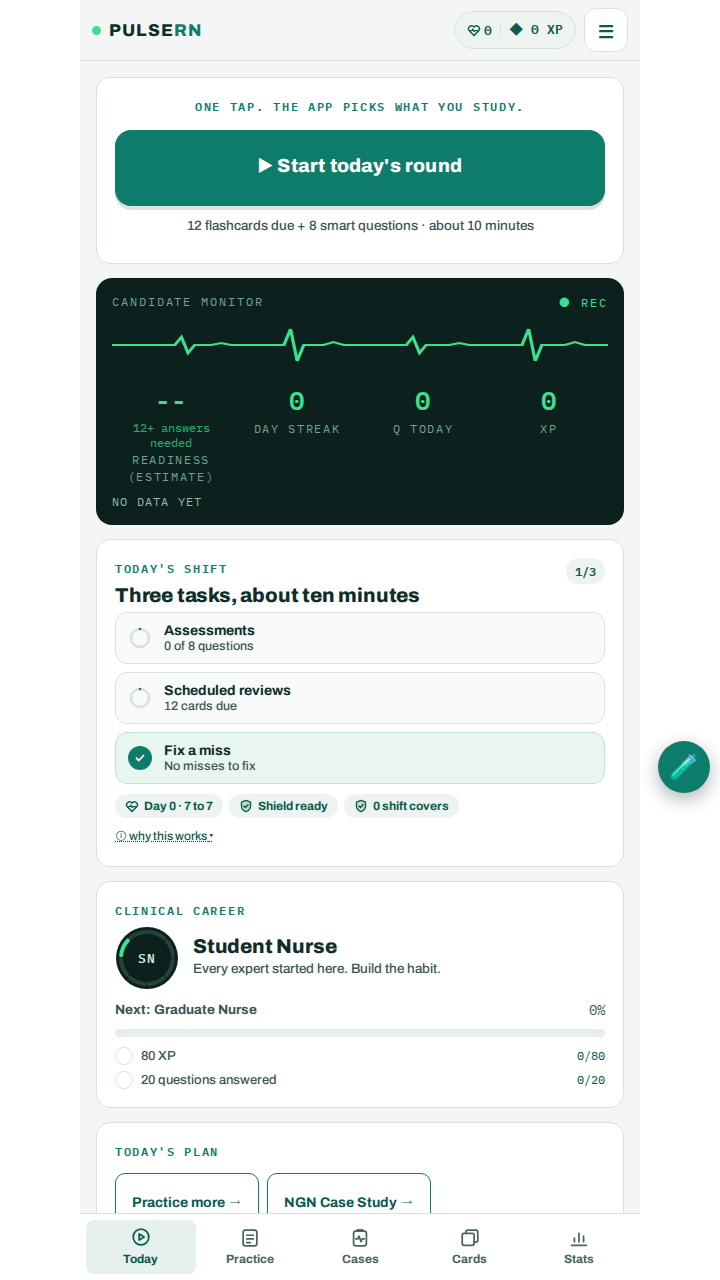
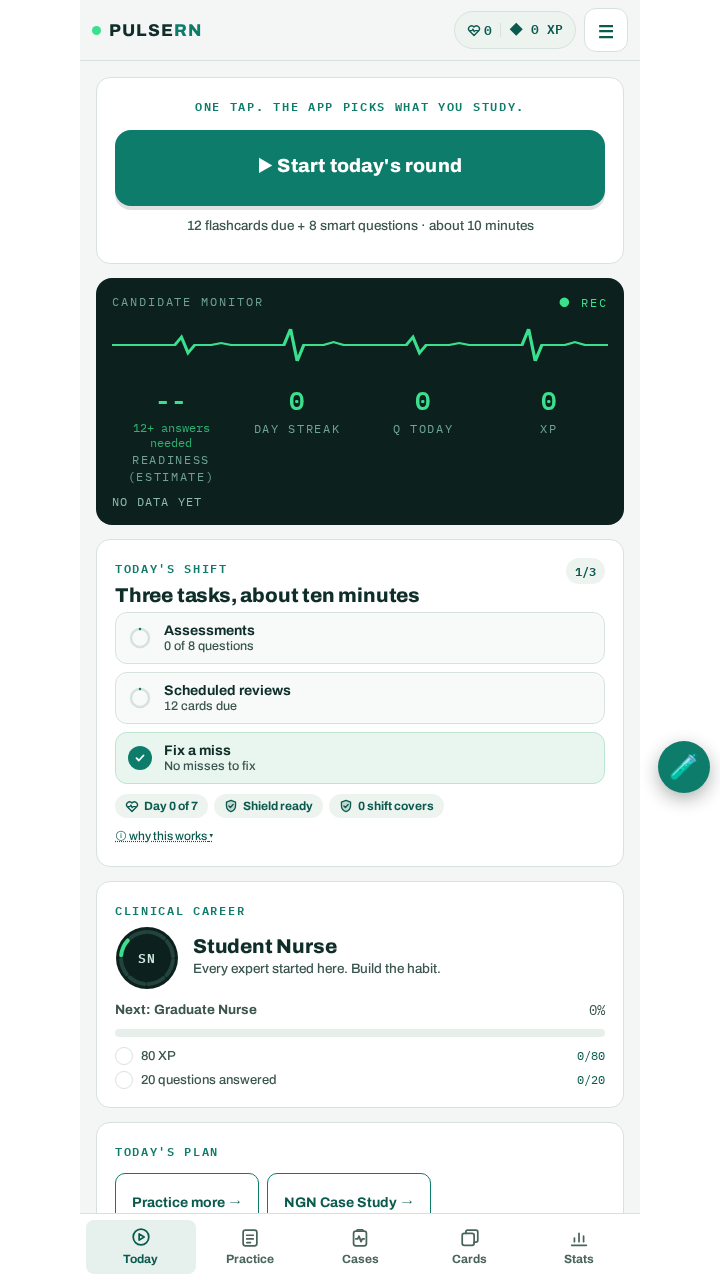
Bank a weekly cover after a same-week spend, and label the streak as Day N of the milestone.
A full cover bank no longer marks the week as granted, so spending a cover later that week can still bank the one that was earned at the cap. The Today streak pill now reads "Day 0 of 7" instead of the garbled "Day 0 · 7 to 7".

diff --git a/pulsern/tests/rewards.test.js b/pulsern/tests/rewards.test.js
@@ -3,7 +3,7 @@
    covers protect missed days; milestones fire once. */
 import { describe, it, expect } from "vitest";
 import {
-  answerXp, minThinkMs, answerCountsForRun, xpNote, comboFor, bumpDay, reverseCardDay, shiftStatus, shiftCompleteNote, todayQuestionCount, weekRounds, maybeGrantCover, advanceStreak, streakDayCounted,
+  answerXp, minThinkMs, answerCountsForRun, xpNote, comboFor, bumpDay, reverseCardDay, shiftStatus, shiftCompleteNote, todayQuestionCount, weekRounds, maybeGrantCover, advanceStreak, streakDayCounted, streakPillLabel,
   categoryMastery, badgeBoard, careerStatus, legacyRankIndex, detectMoments, markMomentsSeen, sessionRecap,
   emptyRewards, migrateRewards, daysBetween, shiftDay, mondayOf, TIERS, CAREER, REVIEW_FIX_BONUS, MAX_COVERS, TEST_PLAN,
 } from "../src/rewards.js";
@@ -225,6 +225,26 @@ describe("Today's shift and weekly rounds", () => {
     expect(wk.shifts).toBe(5);
     expect(wk.days[4].state).toBe("shift");
     expect(wk.days[6].state).toBe("future");
+  });
+  it("does not spend the week's cover grant while the bank is full, so a later spend can still bank it", () => {
+    let r = emptyRewards();
+    for (const d of ["2026-11-23", "2026-11-24", "2026-11-25", "2026-11-26", "2026-11-27"]) r = bumpDay(r, d, { q: 8, ok: 6 });
+    const monday = mondayOf("2026-11-27");
+    const capped = maybeGrantCover({ ...r, covers: MAX_COVERS }, "2026-11-27");
+    expect(capped.granted).toBe(false);
+    expect(capped.rewards.covers).toBe(MAX_COVERS);
+    expect(capped.rewards.coverWeeks).not.toContain(monday);
+    const spent = { ...capped.rewards, covers: MAX_COVERS - 1 };
+    const after = maybeGrantCover(spent, "2026-11-27");
+    expect(after.granted).toBe(true);
+    expect(after.rewards.covers).toBe(MAX_COVERS);
+    expect(after.rewards.coverWeeks).toContain(monday);
+  });
+  it("labels the streak pill as the current day of the next milestone", () => {
+    expect(streakPillLabel(0)).toBe("Day 0 of 7");
+    expect(streakPillLabel(3)).toBe("Day 3 of 7");
+    expect(streakPillLabel(7)).toBe("Day 7 of 30");
+    expect(streakPillLabel(365)).toBe("Day 365");
   });
 });
 

diff --git a/pulsern/src/rewards-ui.jsx b/pulsern/src/rewards-ui.jsx
@@ -4,7 +4,7 @@
    by prefers-reduced-motion or the in-app "Reduce effects" setting
    (the .fx-reduced class on .app). */
 import React, { useCallback, useEffect, useRef, useState } from "react";
-import { CAREER, TIERS, SHORT_CAT, RECENT_WINDOW, COVER_EVERY_WEEK, MAX_COVERS, nextMilestone } from "./rewards.js";
+import { CAREER, TIERS, SHORT_CAT, RECENT_WINDOW, COVER_EVERY_WEEK, MAX_COVERS, nextMilestone, streakPillLabel } from "./rewards.js";
 
 const INITIALS = ["SN", "GN", "NG", "RN", "PR", "CN", "NE", "CNS"];
 
@@ -188,7 +188,6 @@ export function streakMoment(count) {
 
 /* ---------- Today's shift ---------- */
 export function ShiftCard({ shift, streak, rewards, tourClass = "", children }) {
-  const nm = nextMilestone(streak.count);
   return (
     <section className={"card rw-shift" + tourClass}>
       <div className="rw-row-between">
@@ -208,7 +207,7 @@ export function ShiftCard({ shift, streak, rewards, tourClass = "", children }) 
         ))}
       </ul>
       <div className="rw-streakline">
-        <span className="rw-pill"><StreakGlyph /> Day {streak.count}{nm ? ` · ${nm - streak.count} to ${nm}` : ""}</span>
+        <span className="rw-pill"><StreakGlyph /> {streakPillLabel(streak.count)}</span>
         <span className={streak.shield ? "rw-pill" : "rw-pill caution"}><ShieldGlyph used={!streak.shield} /> {streak.shield ? "Shield ready" : "Shield used"}</span>
         <span className="rw-pill"><ShieldGlyph /> {rewards.covers} shift cover{rewards.covers === 1 ? "" : "s"}</span>
       </div>

diff --git a/pulsern/src/rewards.js b/pulsern/src/rewards.js
@@ -346,9 +346,13 @@ export function weekRounds(rewards, today) {
 export function maybeGrantCover(rewards, today) {
   const wk = weekRounds(rewards, today);
   if (wk.shifts < COVER_EVERY_WEEK || rewards.coverWeeks.includes(wk.monday)) return { rewards, granted: false };
+  /* Do not mark the week until a cover is actually banked. If the bank is
+     already full, a cover spent later the same week can still receive the
+     cover that was earned while at the cap. */
+  if (rewards.covers >= MAX_COVERS) return { rewards, granted: false };
   return {
-    rewards: { ...rewards, covers: Math.min(MAX_COVERS, rewards.covers + 1), coverWeeks: [...rewards.coverWeeks, wk.monday].slice(-12) },
-    granted: rewards.covers < MAX_COVERS,
+    rewards: { ...rewards, covers: rewards.covers + 1, coverWeeks: [...rewards.coverWeeks, wk.monday].slice(-12) },
+    granted: true,
   };
 }
 
@@ -406,6 +410,13 @@ export function advanceStreak(streak, rewards, today) {
 
 export function nextMilestone(count) {
   return STREAK_MILESTONES.find((m) => m > count) ?? null;
+}
+
+/* Clear day-and-milestone label for the Today streak pill. "Day 0 · 7 to 7"
+   read as a garbled "Day 0-7 to 7" on a fresh account. */
+export function streakPillLabel(count) {
+  const nm = nextMilestone(count);
+  return nm ? `Day ${count} of ${nm}` : `Day ${count}`;
 }
 
 /* ---------------- mastery badges (Benner, novice to expert) ---------------- */

diff --git a/pulsern/src/App.jsx b/pulsern/src/App.jsx
@@ -1329,7 +1329,9 @@ export default function App() {
     momentsPrimed.current = true;
     // eslint-disable-next-line react-hooks/exhaustive-deps
   }, [loaded, log.length, xp]);
-  /* Five shifts in a week bank one shift cover (max MAX_COVERS). */
+  /* Five shifts in a week bank one shift cover (max MAX_COVERS).
+     covers is a dependency so a cover spent later the same week can still
+     bank the cover that was earned while the bank was full. */
   useEffect(() => {
     if (!loaded) return;
     const g = maybeGrantCover(rewardsRef.current, today);
@@ -1337,7 +1339,7 @@ export default function App() {
     setRewards((r) => maybeGrantCover(r, today).rewards);
     if (g.granted) setMoments((m) => [...m, { kind: "cover", title: "Shift cover earned", line: "Five shifts this week. A cover protects your streak on a day you can't study, like a clinical day.", next: `${g.rewards.covers} of ${MAX_COVERS} banked` }]);
     // eslint-disable-next-line react-hooks/exhaustive-deps
-  }, [loaded, rewards.days, today]);
+  }, [loaded, rewards.days, rewards.covers, today]);
 
   /* ---- session recap: snapshot at the start, summary at the end ---- */
   const sessionStart = useRef(null);

diff --git a/pulsern/tests/review3.test.js b/pulsern/tests/review3.test.js
@@ -67,6 +67,11 @@ describe("Codex P2 wiring", () => {
     expect(guest.indexOf("<footer")).toBeGreaterThan(guest.indexOf("stage === \"quiz\""));
     expect(guest.indexOf("<footer")).toBeLessThan(guest.indexOf("<LabFab"));
   });
+  it("retries a weekly cover grant after a cover is spent the same week", () => {
+    const grant = app.slice(app.indexOf("Five shifts in a week bank one shift cover"), app.indexOf("Five shifts in a week bank one shift cover") + 900);
+    expect(grant).toContain("maybeGrantCover");
+    expect(grant).toContain("rewards.covers");
+  });
 });
 
 describe("N1: unreadable saved progress", () => {

diff --git a/pulsern/tests/review2-blockers.test.js b/pulsern/tests/review2-blockers.test.js
@@ -23,6 +23,7 @@ describe("B1: product capture expects the shipped Today screen", () => {
     expect(line).toContain("Today's shift");
     expect(line).toContain("Clinical career");
     expect(line).toContain("Student Nurse");
+    expect(line).toContain("Day 0 of 7");
     expect(line).not.toContain("Today's goal");
     expect(fs.readFileSync("src/rewards-ui.jsx", "utf8")).toContain('<p className="eyebrow">Today\'s shift</p>');
   });

diff --git a/pulsern/PULSERN_BUILD.md b/pulsern/PULSERN_BUILD.md
@@ -142,7 +142,7 @@ The blob also carries additive keys added after this contract was written (flagg
 
 - missSchedule — missed QBank questions on the flashcard ladder (src/question-review.js, built on srs.js nextSchedule): a miss schedules a review for the next LOCAL day and resets the ladder; each correct review pushes it out (3 → 7 → 15 → 31 → 60 days). Due reviews lead the Today round and Review Misses; Review Misses still serves every current miss on demand. Legacy saves without the key derive it from the answer log: every question whose latest answer is wrong is due today (the log carries no dates).
 - fcNew — the daily new-card ledger. dueQueue receives NEW_PER_DAY minus the count for today, so the 20-a-day cap holds across queue rebuilds and reloads. Missing or from an earlier day = nothing introduced today.
-- rewards — NEW, optional (src/rewards.js migrateRewards). Shape: { v, days: { "YYYY-MM-DD": { q, ok, xp, cards } } (last 35 LOCAL days), covers (0–2 banked shift covers), coverWeeks, coverDays, best: { run, sessionAcc, sessionN, dayQ, streak }, milestones: { "7": true, ... }, rankHigh (career index, never decreases; legacy XP titles grandfathered by legacyRankIndex), badgesSeen: { "<cat>": tier }, prefs: { sound: false, haptics: true, reduceFx: false } }. Missing or malformed = emptyRewards(). It never changes how XP, streak.count or streak.shield were computed for existing saves; a shift cover only bridges one missed LOCAL day after the shield is spent.
+- rewards — NEW, optional (src/rewards.js migrateRewards). Shape: { v, days: { "YYYY-MM-DD": { q, ok, xp, cards } } (last 35 LOCAL days), covers (0–2 banked shift covers), coverWeeks, coverDays, best: { run, sessionAcc, sessionN, dayQ, streak }, milestones: { "7": true, ... }, rankHigh (career index, never decreases; legacy XP titles grandfathered by legacyRankIndex), badgesSeen: { "<cat>": tier }, prefs: { sound: false, haptics: true, reduceFx: false }, cardOps (optional additive array of card-grade operations; migrateRewards and mergeRewards preserve it) }. Missing or malformed = emptyRewards(). It never changes how XP, streak.count or streak.shield were computed for existing saves; a shift cover only bridges one missed LOCAL day after the shield is spent.
 - Guest trial — before sign-up, /app/try stores up to 5 answers of built-in questions under localStorage pulsern-guest-v1 (src/guest.js). It stays for 7 days after the last answer. On a signed-in load on the same browser (src/progress-load.js guestHandoff), the decision is the account's saved answer history, never the account's creation date. No saved answers, including an older account whose log is empty: mergeGuestIntoBlob imports the trial once through the live answer function (at most 5 well-formed rows, idempotent). Any saved answer: the trial stays on the device and the app shows "This account already has progress, so your practice answers weren't added." with one button, Discard practice answers. That tap is the only handoff action that clears it. There is no add-onto-history path. The device copy is also cleared after the save that carries a new-account import, and on sign-out. A failed progress read never counts as an empty history: the app shows a retry screen and neither autosaves nor merges until a read succeeds. A saved row the app cannot open (null, not an object, bad JSON, or a failed migration) is a separate state (src/progress-load.js parseProgress): the server copy is never overwritten or deleted (Reset is off in that mode), nothing is copied to the device (an old pulsern-progress-backup-v1 key from earlier builds is removed on load and sign-out), and the student can study without saving, download a copy from memory, or sign out. Every sign-out (src/sign-out.js, and the one-time forced re-login in src/app-routing.js) clears the trial key.
 
 ## 5 · App integration work (src/App.jsx)
